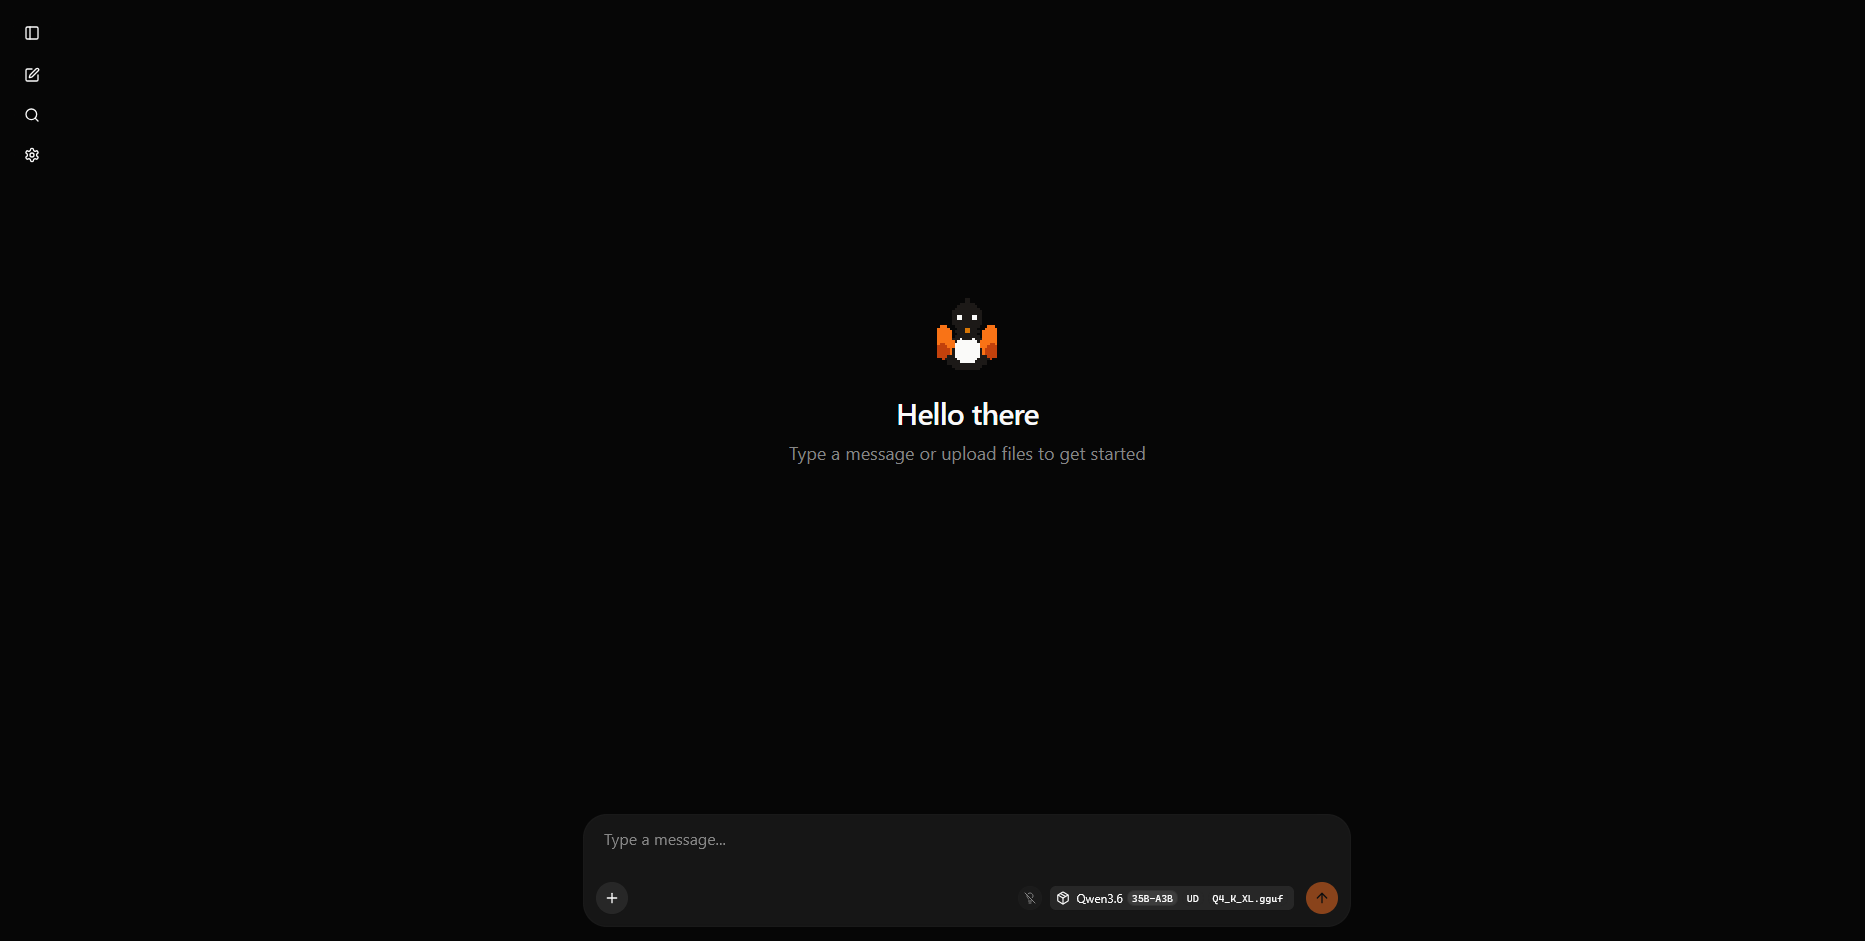
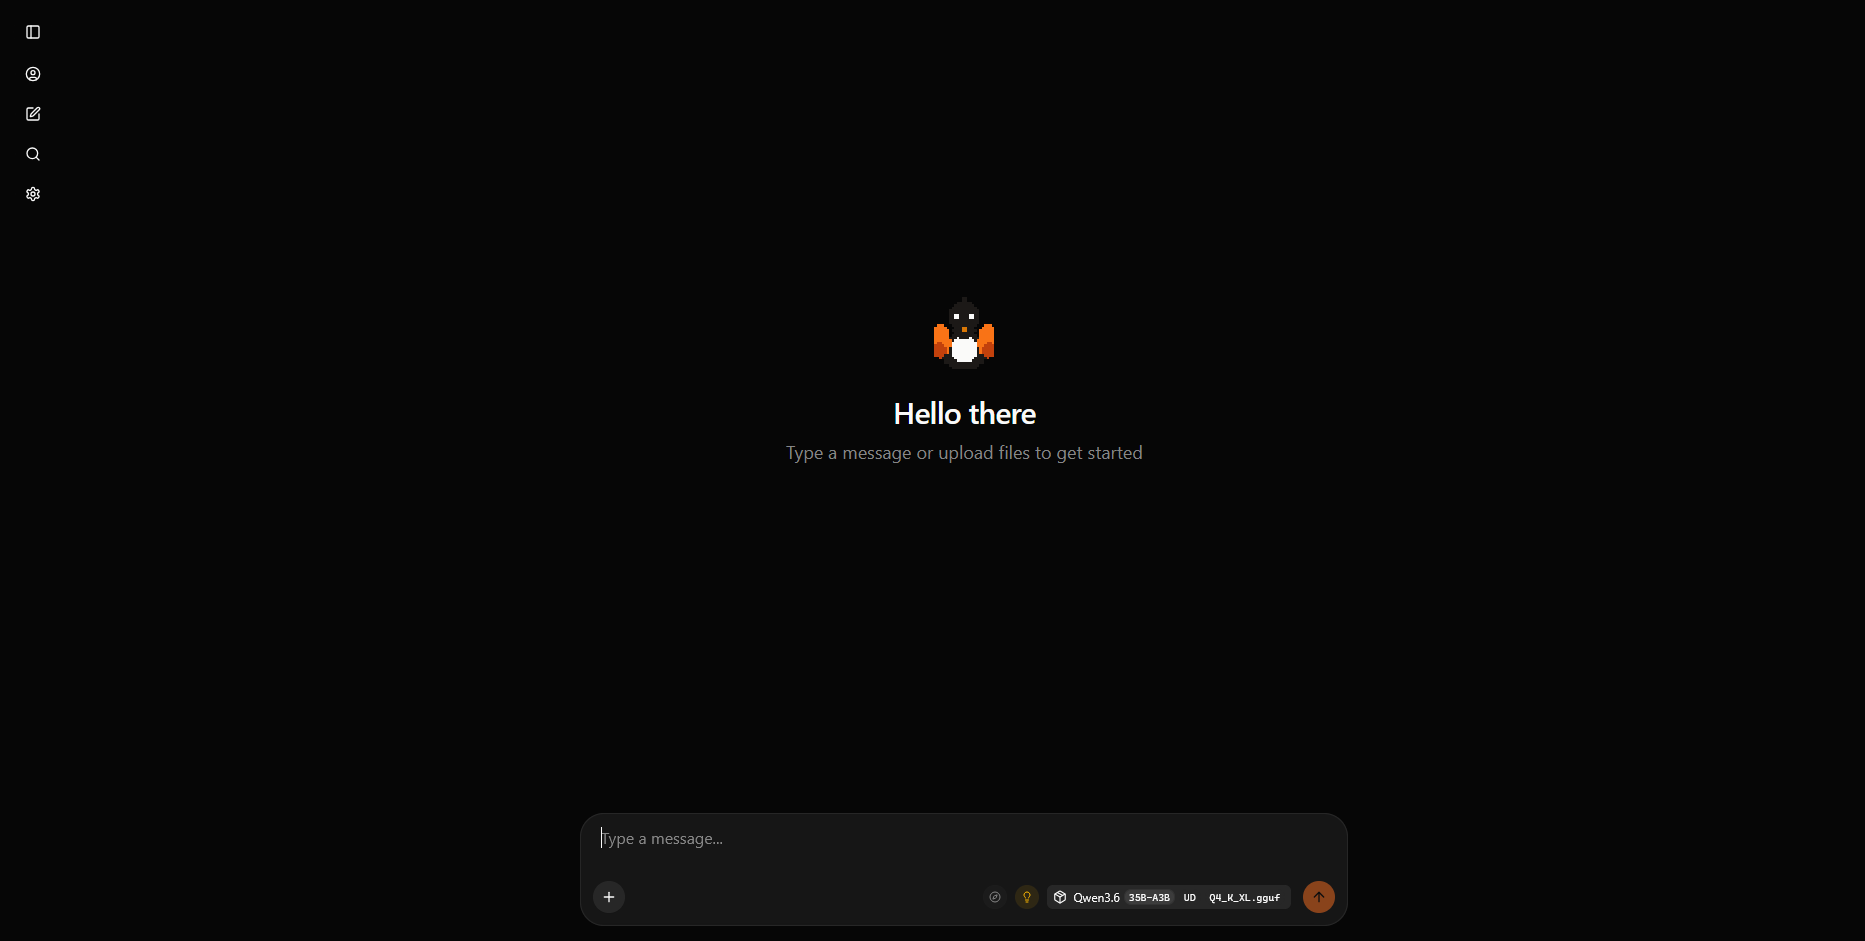
Update README screenshots to current UI
- 8 new screenshots added: Nest's Models and Server tabs, and the chat
  UI's Tools/Accounts/Roles/System Prompt/Connectors settings pages plus
  the account and files pages — none of these were in the README before.
- 3 existing screenshots (Nest launcher, chat UI, Nest tools tab) updated
  in place to match the current UI.
- Replaced two stale screenshots (old Settings and Accounts pages) that
  still showed a since-removed nav structure (Sampling/Penalties/
  Developer instead of the current Roles/System Prompt/Connectors) with
  their current equivalents.
- Redacted screenshot-redstart-nest.png: it showed a real LAN IP as text
  and a scannable QR code, plus a derived sslip.io hostname. Blacked out
  before publishing to a public repo.
- Renamed several files for an unambiguous naming scheme — the launcher
  and the chat UI each have their own "Tools" screen, so both are now
  prefixed (screenshot-nest-*, screenshot-chat-*) rather than sharing a
  generic name.
- README: split the flat 6-column screenshot table into two grouped
  tables (Nest launcher, Twig/chat UI) since a single row no longer
  reads well at 14 images.

diff --git a/README.md b/README.md
@@ -19,9 +19,21 @@
 
 ## Screenshots
 
-| Redstart Nest — server launcher | Login screen | Chat UI | Settings panel | Tools panel | Accounts tab |
-|---|---|---|---|---|---|
-| ![Redstart Nest launcher](docs/screenshot-redstart-nest.png) | ![Login screen](docs/screenshot-login.png) | ![Chat UI](docs/screenshot-chat-ui.png) | ![Settings panel](docs/screenshot-settings.png) | ![Tools panel](docs/screenshot-tools.png) | ![Accounts tab](docs/screenshot-accounts.png) |
+**Redstart Nest — server launcher**
+
+| Configuration | Models | Tools | Server |
+|---|---|---|---|
+| ![Nest configuration tab](docs/screenshot-redstart-nest.png) | ![Nest models tab — local storage and Hugging Face browser](docs/screenshot-nest-models.png) | ![Nest tools tab — capabilities like web access, Postgres, Documents, SQLite, Vault](docs/screenshot-nest-tools.png) | ![Nest server tab — live server terminal](docs/screenshot-nest-server.png) |
+
+**Redstart Twig / chat UI**
+
+| Login | Chat | Settings — General | Settings — Tools | Settings — Accounts |
+|---|---|---|---|---|
+| ![Login screen](docs/screenshot-login.png) | ![Chat UI](docs/screenshot-chat-ui.png) | ![Settings — General](docs/screenshot-chat-settings-general.png) | ![Settings — Tools, per-tool enable and always-allow](docs/screenshot-chat-settings-tools.png) | ![Settings — Accounts, with per-account roles](docs/screenshot-chat-settings-accounts.png) |
+
+| Settings — Roles | Settings — System Prompt | Settings — Connectors | Your account | Your files |
+|---|---|---|---|---|
+| ![Settings — Roles](docs/screenshot-chat-settings-roles.png) | ![Settings — System Prompt](docs/screenshot-chat-settings-system-prompt.png) | ![Settings — Connectors, per-app API keys](docs/screenshot-chat-settings-connectors.png) | ![Your account page](docs/screenshot-chat-account.png) | ![Your files on the server](docs/screenshot-chat-files.png) |
 
 ---
 
